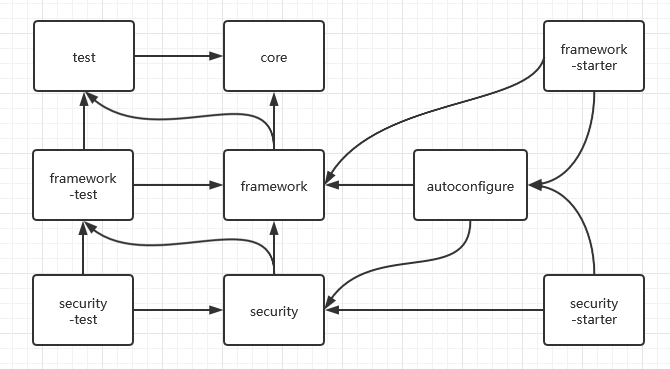
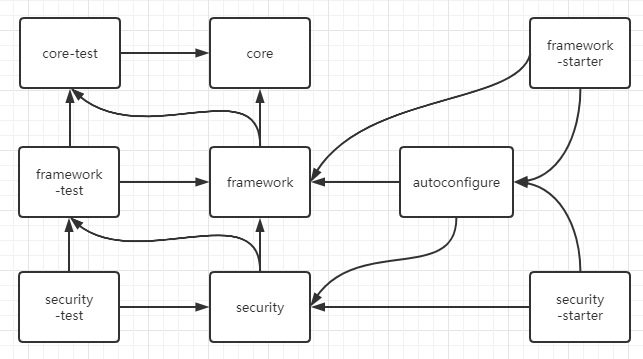
完善代码

diff --git a/jasmine-framework-test/src/main/java/jasmine/testconfigure/framework/JasmineFrameworkTestConfiguration.java b/jasmine-framework-test/src/main/java/jasmine/testconfigure/framework/JasmineFrameworkTestConfiguration.java
@@ -8,7 +8,7 @@ import jasmine.framework.context.CustomInitializingSingletonScanBean;
 import jasmine.framework.context.InitSupportScanBean;
 import jasmine.framework.context.SpringRuntimeProvider;
 import jasmine.mock.core.context.MockSubjectProvider;
-import jasmine.test.constant.TestConstants;
+import jasmine.core.test.constant.TestConstants;
 import org.springframework.context.annotation.Bean;
 import org.springframework.context.annotation.Configuration;
 

diff --git a/jasmine-security/src/test/java/jasmine/security/authorization/DynamicAccessDecisionVoterTest.java b/jasmine-security/src/test/java/jasmine/security/authorization/DynamicAccessDecisionVoterTest.java
@@ -8,7 +8,7 @@ import jasmine.security.rbac.mapper.SecResourceMapper;
 import jasmine.security.strategy.DefaultRbacQueryService;
 import jasmine.security.strategy.RbacAccessDecisionStrategy;
 import jasmine.security.subject.UserSubject;
-import jasmine.test.constant.TestConstants;
+import jasmine.core.test.constant.TestConstants;
 import jasmine.testconfigure.security.MockUrlPatternMatcher;
 import org.junit.Assert;
 import org.junit.Test;

diff --git a/jasmine-security/src/test/java/jasmine/security/strategy/RbacAccessDecisionStrategyTest.java b/jasmine-security/src/test/java/jasmine/security/strategy/RbacAccessDecisionStrategyTest.java
@@ -9,7 +9,7 @@ import jasmine.security.rbac.mapper.SecFunctionMapper;
 import jasmine.security.rbac.mapper.SecResourceMapper;
 import jasmine.security.rbac.model.SecResource;
 import jasmine.security.subject.UserSubject;
-import jasmine.test.constant.TestConstants;
+import jasmine.core.test.constant.TestConstants;
 import jasmine.testconfigure.security.MockUrlPatternMatcher;
 import org.junit.Assert;
 import org.junit.Test;

diff --git a/jasmine-framework/src/test/java/jasmine/framework/web/conversion/StartDateFormatterFactoryTest.java b/jasmine-framework/src/test/java/jasmine/framework/web/conversion/StartDateFormatterFactoryTest.java
@@ -1,7 +1,7 @@
 package jasmine.framework.web.conversion;
 
 import jasmine.framework.web.annotation.StartDate;
-import jasmine.test.mockito.MockUtil;
+import jasmine.core.test.mockito.MockUtil;
 import org.junit.Assert;
 import org.junit.Test;
 import org.mockito.Mockito;

diff --git a/jasmine-framework/src/test/java/jasmine/framework/web/conversion/StartDateFormatterTest.java b/jasmine-framework/src/test/java/jasmine/framework/web/conversion/StartDateFormatterTest.java
@@ -1,7 +1,7 @@
 package jasmine.framework.web.conversion;
 
 import jasmine.framework.web.annotation.StartDate;
-import jasmine.test.mockito.MockUtil;
+import jasmine.core.test.mockito.MockUtil;
 import org.junit.Assert;
 import org.junit.Test;
 import org.mockito.Mockito;

diff --git a/jasmine-framework/src/test/java/jasmine/framework/web/conversion/EndDateFormatterFactoryTest.java b/jasmine-framework/src/test/java/jasmine/framework/web/conversion/EndDateFormatterFactoryTest.java
@@ -1,7 +1,7 @@
 package jasmine.framework.web.conversion;
 
 import jasmine.framework.web.annotation.EndDate;
-import jasmine.test.mockito.MockUtil;
+import jasmine.core.test.mockito.MockUtil;
 import org.junit.Assert;
 import org.junit.Test;
 import org.mockito.Mockito;

diff --git a/jasmine-framework/src/test/java/jasmine/framework/web/conversion/EndDateFormatterTest.java b/jasmine-framework/src/test/java/jasmine/framework/web/conversion/EndDateFormatterTest.java
@@ -1,7 +1,7 @@
 package jasmine.framework.web.conversion;
 
 import jasmine.framework.web.annotation.EndDate;
-import jasmine.test.mockito.MockUtil;
+import jasmine.core.test.mockito.MockUtil;
 import org.junit.Assert;
 import org.junit.Test;
 import org.mockito.Mockito;

diff --git a/jasmine-core-test/src/test/java/jasmine/core/test/mockito/CustomAnswerTest.java b/jasmine-core-test/src/test/java/jasmine/core/test/mockito/CustomAnswerTest.java
@@ -1,6 +1,6 @@
-package jasmine.test.mockito;
+package jasmine.core.test.mockito;
 
-import jasmine.test.testdependency.Example1;
+import jasmine.core.test.testdependency.Example1;
 import org.junit.Assert;
 import org.junit.Test;
 import org.mockito.Mockito;

diff --git a/jasmine-core-test/src/test/java/jasmine/core/test/mockito/MockUtilTest.java b/jasmine-core-test/src/test/java/jasmine/core/test/mockito/MockUtilTest.java
@@ -1,6 +1,6 @@
-package jasmine.test.mockito;
+package jasmine.core.test.mockito;
 
-import jasmine.test.testdependency.Example1;
+import jasmine.core.test.testdependency.Example1;
 import org.junit.Assert;
 import org.junit.Test;
 import org.mockito.Mockito;

diff --git a/jasmine-security/src/test/java/jasmine/security/subject/UserSubjectProviderTest.java b/jasmine-security/src/test/java/jasmine/security/subject/UserSubjectProviderTest.java
@@ -1,6 +1,6 @@
 package jasmine.security.subject;
 
-import jasmine.test.mockito.MockUtil;
+import jasmine.core.test.mockito.MockUtil;
 import org.junit.Assert;
 import org.junit.Test;
 import org.mockito.Mockito;

diff --git a/jasmine-core-test/src/main/java/jasmine/core/test/mockito/CustomAnswer.java b/jasmine-core-test/src/main/java/jasmine/core/test/mockito/CustomAnswer.java
@@ -1,4 +1,4 @@
-package jasmine.test.mockito;
+package jasmine.core.test.mockito;
 
 import org.mockito.invocation.InvocationOnMock;
 import org.mockito.stubbing.Answer;

diff --git a/jasmine-core-test/src/main/java/jasmine/core/test/mockito/MockUtil.java b/jasmine-core-test/src/main/java/jasmine/core/test/mockito/MockUtil.java
@@ -1,4 +1,4 @@
-package jasmine.test.mockito;
+package jasmine.core.test.mockito;
 
 import jasmine.core.util.QCheckUtil;
 import org.mockito.Mockito;
